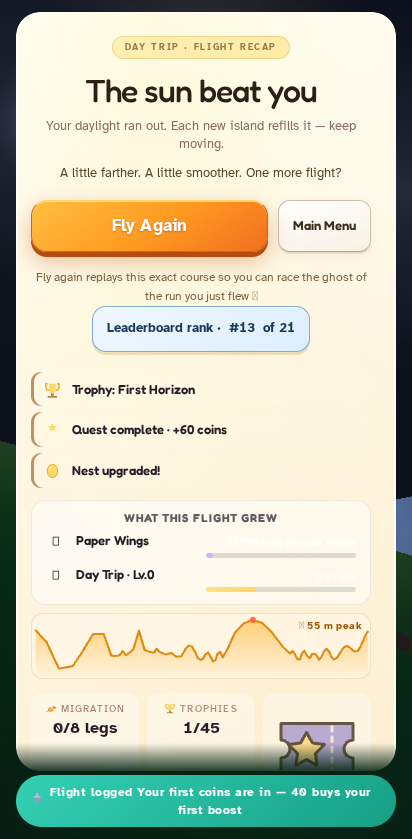
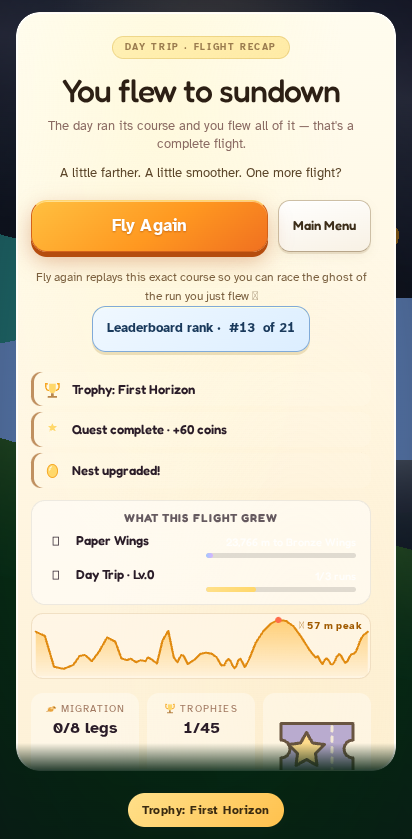
Engagement playbook levers: recap psychology pass, all shipped + locked
Implements the ranked levers from docs/poki/ENGAGEMENT_PLAYBOOK.md §3.4:

- Outcome-aware recap headline: runOutcome flows into HudSnapshot; a
  completed day trip reads "You flew to sundown" / "Flight complete —
  landed clean" instead of "The sun beat you". Genuine fails keep
  coaching copy. Completes the runOutcome honesty fix player-side.
- Near-miss strip promoted from below eight folds to directly after the
  tagline, before the Fly Again button (the retry decision point).
- Armed 3x coin card + next-flight lesson moved above the fold, right
  after the Distance/Score/Coins summary; links stay below.
- Golden-hour pre-cue: one toast at 35% daylight, once per run
  (goldenCued, reset in startRun); the 22% payoff is unchanged.
- Streak chip on the home hero at streakDays >= 2 ("one flight keeps
  it alive") — endowed progress at the return decision point.
- Run-2 CTA made concrete: "Today's Daily Challenge is live — bonus
  coins on the daily course" replaces the vague social-sky nudge.

Levers 2/3/10 verified as already satisfied (starter goals, first-
control Fly Again + EN-02 Space, portrait preview); 7 deferred pending
real cohort data for ghost seeding. Status table in the playbook.

Proof: new recap-engagement.test.ts (9 tests — headline framing, fold
order, no duplicate cards, streak chip presence/absence); first-session
audit now asserts the levers on the running build (headline PASS,
pre-cue PASS) with refreshed screenshots. Full suite 3229/3229,
[…]

diff --git a/src/game/hud/run.ts b/src/game/hud/run.ts
@@ -19,7 +19,7 @@ import { escapeHtml, sectionTitle } from "./kit";
 import { type HudSnapshot } from "./types";
 import { distanceText, renderGoalList, renderMissions, renderQuests, renderScoreTable } from "./parts";
 
-export function renderGameOver(s: Pick<HudSnapshot, "balloons" | "bestDistance" | "biomeEmoji" | "biomeName" | "board" | "boardMetric" | "boardScope" | "campaignDone" | "campaignTotal" | "celebration" | "challengeOutcome" | "claimedQuests" | "coins" | "distance" | "duel" | "duelDelta" | "duelWas" | "endReason" | "expShareFirst" | "flightPath" | "ghostDelta" | "highScores" | "island" | "massRace" | "mastery" | "missions" | "modeId" | "modeName" | "multiplierClaimed" | "nearMiss" | "nestLevel" | "nestMult" | "newBest" | "newlyCompleted" | "nextAction" | "p1Stats" | "p2Stats" | "perfects" | "photoFinish" | "portalName" | "quests" | "raceField" | "raceFinishM" | "raceFinishTime" | "racePlace" | "raceRated" | "raceVerified" | "ratingBonus" | "ratingDelta" | "rings" | "rival" | "roomCode" | "score" | "season" | "sessionGoals" | "share" | "shareBusy" | "skins" | "slopeChain" | "slopeScore" | "sunflowers" | "trophyCounts" | "versus" | "versusWinner" | "wallet" | "wings" | "zeniths">): string {
+export function renderGameOver(s: Pick<HudSnapshot, "balloons" | "bestDistance" | "biomeEmoji" | "biomeName" | "board" | "boardMetric" | "boardScope" | "campaignDone" | "campaignTotal" | "celebration" | "challengeOutcome" | "claimedQuests" | "coins" | "distance" | "duel" | "duelDelta" | "duelWas" | "endReason" | "expShareFirst" | "flightPath" | "ghostDelta" | "highScores" | "island" | "massRace" | "mastery" | "missions" | "modeId" | "modeName" | "multiplierClaimed" | "nearMiss" | "nestLevel" | "nestMult" | "newBest" | "newlyCompleted" | "nextAction" | "p1Stats" | "p2Stats" | "perfects" | "photoFinish" | "portalName" | "quests" | "raceField" | "raceFinishM" | "raceFinishTime" | "racePlace" | "raceRated" | "raceVerified" | "ratingBonus" | "ratingDelta" | "rings" | "rival" | "roomCode" | "runOutcome" | "score" | "season" | "sessionGoals" | "share" | "shareBusy" | "skins" | "slopeChain" | "slopeScore" | "sunflowers" | "trophyCounts" | "versus" | "versusWinner" | "wallet" | "wings" | "zeniths">): string {
   if (s.versus && s.p1Stats && s.p2Stats) return renderVersusResult(s);
   const questTotal = s.claimedQuests.reduce((a, q) => a + q.reward, 0);
   const deltaTxt =
@@ -101,9 +101,10 @@ export function renderGameOver(s: Pick<HudSnapshot, "balloons" | "bestDistance" 
 
   return `
     <div class="results-kicker">${escapeHtml(s.modeName)} · ${t("hud.gameover.flightRecap", undefined, "flight recap")}</div>
-    <h2>${escapeHtml(END_REASON_TITLE[s.endReason] ?? "Flight completed")}</h2>
-    <p class="end-reason">${escapeHtml(END_REASON_LINE[s.endReason] ?? "")}</p>
+    <h2>${escapeHtml(recapTitle(s))}</h2>
+    <p class="end-reason">${escapeHtml(recapLine(s))}</p>
     <p class="tagline">${s.massRace ? t("hud.gameover.massraceTagline", undefined, "Your place, your progress, your next race.") : t("hud.gameover.soloTagline", undefined, "A little farther. A little smoother. One more flight?")}</p>
+    ${s.nearMiss ? `<div class="nearmiss">${s.nearMiss}</div>` : ""}
     <div class="result-actions"><button class="play-again-btn" data-ui data-action="${resultsPrimaryAction(s)}">${s.massRace && s.roomCode ? t("hud.gameover.backToLobby", undefined, "Back to race lobby") : s.massRace && s.racePlace > 0 ? t("hud.gameover.raceAgain", undefined, "Race again · same stakes") : t("hud.gameover.flyAgain", undefined, "Fly Again")}</button><button class="soft-btn" data-ui data-action="menu">${t("hud.gameover.mainMenu", undefined, "Main Menu")}</button></div>
     ${!s.massRace ? `<p class="fineprint replay-note">${t("hud.gameover.replayNote", undefined, "Fly again replays this exact course so you can race the ghost of the run you just flew 👻")}</p>` : ""}
     ${s.newBest ? `<div class="new-best">${menuIconSm("crown")} ${t("hud.gameover.newBest", undefined, "NEW BEST")} · ${distanceText(s.distance)}<small>${t("hud.gameover.farthestFlight", undefined, "your farthest flight yet")}</small></div>` : ""}
@@ -123,6 +124,9 @@ export function renderGameOver(s: Pick<HudSnapshot, "balloons" | "bestDistance" 
       <div><span>${t("hud.stat.coins", undefined, "Coins")}</span><b>${formatNumberLocalized(s.coins)}</b></div>
     </div>
 
+    ${renderCoinMultiplierCard(s.coins, s.multiplierClaimed, s.portalName !== "none")}
+    ${renderNextFlight(s)}
+
     <div class="btn-row result-links">
       <button class="soft-btn gold-tint" data-ui data-action="open-shop">${menuIcon("shop")} Shop</button>
       <button class="soft-btn" data-ui data-action="open-pass">${menuIcon("pass")} Pass</button>
@@ -130,9 +134,6 @@ export function renderGameOver(s: Pick<HudSnapshot, "balloons" | "bestDistance" 
     </div>
     ${s.nextAction ? `<p class="next-action">${escapeHtml(s.nextAction)}</p>` : ""}
 
-    ${renderCoinMultiplierCard(s.coins, s.multiplierClaimed, s.portalName !== "none")}
-
-    ${renderNextFlight(s)}
     <details class="result-details"><summary>${t("hud.renderGameOver.FDetails", undefined, "Flight details ")}<span>Landmarks &amp; skill</span></summary><div class="over-stats">
       <div><span>Perfects</span><b>${s.perfects}</b></div>
       <div><span>${t("hud.renderGameOver.SMoments", undefined, "Skyline moments")}</span><b>${s.zeniths}</b></div>
@@ -145,7 +146,6 @@ export function renderGameOver(s: Pick<HudSnapshot, "balloons" | "bestDistance" 
     ${s.ghostDelta !== null ? `<div class="reward-strip ${s.ghostDelta >= 0 ? "" : "nest"}">${s.ghostDelta >= 0 ? `Beat your ghost by ${Math.round(s.ghostDelta)}m! ${menuIconSm("ghost")}` : `${Math.round(-s.ghostDelta)}m behind your best ghost`}</div>` : ""}
     ${questTotal ? `<div class="reward-strip">Daily quest${s.claimedQuests.length > 1 ? "s" : ""} complete · +${questTotal} coins</div>` : ""}
     ${s.newlyCompleted.length ? `<div class="reward-strip nest">Nest upgraded → Lv.${s.nestLevel} · ×${s.nestMult.toFixed(2)} score</div>` : ""}
-    ${s.nearMiss ? `<div class="nearmiss">${s.nearMiss}</div>` : ""}
     ${s.challengeOutcome ? `<div class="reward-strip ${s.challengeOutcome.includes("missed") ? "nest" : ""}">${escapeHtml(s.challengeOutcome)}</div>` : ""}
     ${duelStrip}
     ${raceStrip}
@@ -439,12 +439,29 @@ export function resultsPrimaryAction(
 }
 
 /**
- * How each ending is named on the results card.
- *
- * Three deaths used to produce one card reading "Flight completed" — including
- * a settle-death that fires with most of the daylight still on the meter, which
- * cannot be read as "the sun won" by any player.
+ * The recap headline is outcome-aware (playbook §3). The old maps framed
+ * every end reason as a defeat — "The sun beat you" greeted a player who
+ * flew the whole day trip to sundown, which is the mode *completing*, not
+ * losing. `runOutcome` (same contract the Poki funnel reports) now decides
+ * the frame: completed runs get earned-pride copy so the retry reads as
+ * "go further" instead of "erase a failure"; only genuine fails coach.
  */
+const recapTitle = (s: { endReason: HudSnapshot["endReason"]; runOutcome: HudSnapshot["runOutcome"] }): string => {
+  if (s.runOutcome === "complete") {
+    if (s.endReason === "settled") return "Flight complete — landed clean";
+    return "You flew to sundown";
+  }
+  return END_REASON_TITLE[s.endReason] ?? "Flight completed";
+};
+
+const recapLine = (s: { endReason: HudSnapshot["endReason"]; runOutcome: HudSnapshot["runOutcome"] }): string => {
+  if (s.runOutcome === "complete") {
+    if (s.endReason === "settled") return "You brought the glide home yourself. Full card, full flight.";
+    return "The day ran its course and you flew all of it — that's a complete flight.";
+  }
+  return END_REASON_LINE[s.endReason] ?? "";
+};
+
 const END_REASON_TITLE: Record<string, string> = {
   daylight: "The sun beat you",
   water: "You washed out",

diff --git a/src/game/__tests__/recap-engagement.test.ts b/src/game/__tests__/recap-engagement.test.ts
@@ -1,0 +1,133 @@
+/**
+ * Engagement regressions for the results card and the home hero — the levers
+ * from docs/poki/ENGAGEMENT_PLAYBOOK.md that live in markup, locked here so a
+ * refactor cannot quietly re-bury them.
+ *
+ * The playbook's diagnosis: the 2026-10-04 fit test lost players at the recap
+ * (avg 1m20s, retry rate low). Three markup causes — a headline that mourned
+ * successful runs, a near-miss strip buried below eight folds, and the armed
+ * coin bonus below the fold — are each pinned by a test below. The home-hero
+ * streak chip (endowed progress at the return decision point) is pinned too.
+ */
+import { afterEach, describe, expect, it, vi } from "vitest";
+import { renderGameOver } from "../hud/run";
+import { mountHud, snapshotStub, WINGS } from "./hudHarness";
+import type { HudSnapshot } from "../hud/types";
+
+afterEach(() => {
+  vi.unstubAllGlobals();
+  document.body.innerHTML = "";
+});
+
+/** A snapshot whose unread fields render as inert empties (see hudHarness). */
+function recap(over: Record<string, unknown> = {}): string {
+  const snap = snapshotStub();
+  Object.assign(snap, {
+    // Multiplayer strips — inert for a solo day trip.
+    massRace: false, roomCode: "", racePlace: 0, raceRated: false, raceVerified: false,
+    raceField: 0, raceFinishM: 0, raceFinishTime: 0, ratingDelta: 0, ratingBonus: 0,
+    duelWas: "", duelDelta: 0, duel: { wins: 0, losses: 0, streak: 0 },
+    versus: false, versusWinner: 0, p1Stats: null, p2Stats: null, photoFinish: "",
+    rival: { rating: 1000, streak: 0 },
+    // Share — unavailable build: the clipboard fallback is the honest floor.
+    share: { available: false, loaded: null, code: "", busy: false, error: "" },
+    shareBusy: false, expShareFirst: false,
+    // Empty collections render their sections as no-ops.
+    sessionGoals: [], quests: [], missions: [], newlyCompleted: [], highScores: [],
+    claimedQuests: [], flightPath: [], skins: [], mastery: [], celebration: null,
+    // Scalar readouts.
+    endReason: "daylight", runOutcome: "complete", modeId: "daytrip", modeName: "Day Trip",
+    distance: 0, score: 0, coins: 0, bestDistance: 0, island: 0,
+    perfects: 0, zeniths: 0, rings: 0, balloons: 0, sunflowers: 0,
+    slopeScore: 0, slopeChain: 0, nestLevel: 1, nestMult: 1,
+    newBest: false, nextAction: "", nearMiss: "", challengeOutcome: "",
+    ghostDelta: null, board: null, boardScope: "global", boardMetric: "distance",
+    multiplierClaimed: false, portalName: "none",
+    wallet: { coins: 0 }, wings: WINGS,
+    season: { tier: 1, maxTier: 50 }, trophyCounts: { unlocked: 0, total: 0 },
+    campaignDone: 0, campaignTotal: 0, biomeEmoji: "sun", biomeName: "Meadows",
+    ...over,
+  });
+  return renderGameOver(snap as unknown as HudSnapshot);
+}
+
+describe("outcome-aware recap headline (playbook §3)", () => {
+  it("celebrates a day trip flown to sundown as a complete flight", () => {
+    const html = recap({ endReason: "daylight", runOutcome: "complete" });
+    expect(html).toContain("You flew to sundown");
+    // The old shame frame — "The sun beat you" — must not greet a completed run.
+    expect(html).not.toContain("The sun beat you");
+  });
+
+  it("celebrates a chosen landing as a completed journey", () => {
+    const html = recap({ endReason: "settled", runOutcome: "complete" });
+    expect(html).toContain("Flight complete — landed clean");
+    expect(html).not.toContain("You stopped flying");
+  });
+
+  it("keeps honest coaching for genuine fails (a ditching is still a fail)", () => {
+    const html = recap({ endReason: "water", runOutcome: "fail" });
+    expect(html).toContain("You washed out");
+    expect(html).toContain("The sea took the run");
+  });
+
+  it("coaches a no-show daylight run instead of celebrating it", () => {
+    const html = recap({ endReason: "daylight", runOutcome: "fail" });
+    expect(html).toContain("The sun beat you");
+    expect(html).not.toContain("You flew to sundown");
+  });
+});
+
+describe("recap fold order (playbook §3 + lever 8)", () => {
+  it("puts the near-miss strip at the emotional peak: after the tagline, before the retry button", () => {
+    const html = recap({
+      endReason: "daylight",
+      runOutcome: "fail",
+      nearMiss: "2% off your best distance",
+    });
+    const nearMiss = html.indexOf("2% off your best distance");
+    const tagline = html.indexOf("One more flight?");
+    const actions = html.indexOf("result-actions");
+    expect(nearMiss).toBeGreaterThan(tagline);
+    expect(nearMiss).toBeLessThan(actions);
+  });
+
+  it("shows the armed coin bonus and next flight above the fold, right after the stats", () => {
+    // coins > 0 arms the 3× bonus card; with 0 coins it correctly renders nothing.
+    const html = recap({ endReason: "daylight", runOutcome: "complete", coins: 120 });
+    const summary = html.indexOf("result-summary");
+    const multiplier = html.indexOf("multiplier-cta-card");
+    const nextFlight = html.indexOf("next-flight");
+    const links = html.indexOf("result-links");
+    expect(multiplier).toBeGreaterThan(summary);
+    expect(nextFlight).toBeGreaterThan(summary);
+    // And no second copy below the fold (the move must not duplicate the card).
+    expect(html.indexOf("multiplier-cta-card", multiplier + 1)).toBe(-1);
+    expect(links).toBeGreaterThan(multiplier);
+  });
+
+  it("keeps Fly Again as the first action in the card's action row", () => {
+    const html = recap({ endReason: "daylight", runOutcome: "complete" });
+    const actions = html.indexOf("result-actions");
+    const flyAgain = html.indexOf("Fly Again");
+    const menu = html.indexOf("Main Menu");
+    expect(actions).toBeGreaterThan(-1);
+    expect(flyAgain).toBeGreaterThan(actions);
+    expect(flyAgain).toBeLessThan(menu);
+  });
+});
+
+describe("home-hero streak chip (playbook lever 4)", () => {
+  it("surfaces a 2+ day streak on the hero, where the return decision happens", async () => {
+    vi.stubGlobal("ResizeObserver", class { observe() {} disconnect() {} });
+    const { root } = await mountHud({ state: "menu", screen: "main", streakDays: 3 });
+    const chip = root.querySelector(".streak-pill");
+    expect(chip?.textContent).toContain("3-day streak");
+  });
+
+  it("stays quiet at 0-1 days (no fake endowed progress)", async () => {
+    vi.stubGlobal("ResizeObserver", class { observe() {} disconnect() {} });
+    const { root } = await mountHud({ state: "menu", screen: "main", streakDays: 1 });
+    expect(root.querySelector(".streak-pill")).toBeNull();
+  });
+});

diff --git a/src/game/Game.ts b/src/game/Game.ts
@@ -636,6 +636,8 @@ export class Game {
   private weeklyMods = { coinMult: 1, gravityMult: 1, windMult: 1, daylightMult: 1 };
   /** Golden Hour: the last stretch of daylight — 2× coins, amber world. */
   private goldenHour = false;
+  /** One-shot pre-cue for golden hour (see the daylight block in the run loop). */
+  private goldenCued = false;
   private nextMilestone = 500;
   private rivalBeatenToast = false;
 
@@ -2613,6 +2615,19 @@ export class Game {
       // GOLDEN HOUR — the last 22% of the day. The world turns amber, the
       // music opens, and every coin is worth double. Deep runs get a reason.
       const goldenNow = this.daylight > 0 && this.daylight < this.daylightMax() * 0.22;
+      // ANTICIPATION CUE — a soft heads-up while there is still daylight to
+      // spend: "golden hour soon" tells the player the run has a late-game
+      // payoff worth flying to, which is exactly the stretch where new
+      // players quit (the 2026-10-04 fit test lost most runs mid-flight).
+      // Once per run, one line, no siren: the payoff itself still lands as
+      // the surprise when the hour arrives.
+      if (
+        !this.goldenCued && !this.goldenHour && this.daylight > 0 &&
+        this.daylight < this.daylightMax() * 0.35 && this.daylight >= this.daylightMax() * 0.22
+      ) {
+        this.goldenCued = true;
+        this.hud.toast("Golden hour soon — coins ×2 while the sun sets", "info", "half_day");
+      }
       if (goldenNow && !this.goldenHour) {
         this.goldenHour = true;
         this.audio.goldenHour();
@@ -3678,6 +3693,7 @@ export class Game {
     if (this.eventRun) this.weeklyMods = weeklyEvent().mods;
     this.serverPlaceApplied = false;
     this.goldenHour = false;
+    this.goldenCued = false;
     this.nextMilestone = 500;
     this.rivalBeatenToast = false;
     this.stormPhase = 1;
@@ -4055,7 +4071,11 @@ export class Game {
       this.hud.toast("Flight logged Your first coins are in — 40 buys your first boost", "quest", "crystal");
       this.telemetry.track("onboarding_first_flight_complete", { distance: Math.round(stats.distance) });
     } else if (this.sessionRuns === 2) {
-      this.hud.toast("Ready for the social sky? Challenge a rival or try today's course", "quest");
+      // A concrete, time-limited next goal beats a vague social nudge for a
+      // player two runs in: the daily course is live content with a payout,
+      // and naming it is the CTA (playbook lever 9). The social sky keeps its
+      // own surfaces — the lobby, the recap's challenge buttons.
+      this.hud.toast("Today's Daily Challenge is live — bonus coins on the daily course", "gold", "sun");
     }
 
     // A duel abandoned short of the line is a loss — no free retries on rating.
@@ -8343,6 +8363,7 @@ export class Game {
     atlas: this.screen === "atlas" ? atlas(this.save, this.island) : [],
     farthestIsland: Math.max(st.farthestIsland, this.island),
     endReason: this.endReason,
+    runOutcome: this.runOutcome,
     launchBanner: this.launchBannerText,
     launchBannerT: this.launchBannerT,
     launchRating: this.lastLaunch?.rating ?? "none",

diff --git a/src/game/hud/types.ts b/src/game/hud/types.ts
@@ -294,6 +294,11 @@ export type HudSnapshot = {
   /* --- momentum / flight readouts --- */
   /** How the run ended, so the card can say so. */
   endReason: "daylight" | "water" | "settled";
+  /** Whether the run actually ended in failure. A run that simply ran its
+   *  course (daylight out, or a settled landing after a full card) is a
+   *  complete run, and the recap headline must celebrate it, not mourn it —
+   *  shaming successful players is how a recap loses the retry. */
+  runOutcome: "complete" | "fail";
   launchBanner: string;
   launchBannerT: number;
   launchRating: string;

diff --git a/src/game/HUD.ts b/src/game/HUD.ts
@@ -3018,6 +3018,7 @@ function renderMain(s: HudSnapshot): string {
         <span class="hero-kicker">chase the daylight</span>
         <h1>SUNBIRD</h1>
         <p class="hero-sub">${t("hud.heroSub", undefined, "Hold to dive. Release to soar.")}<br>${t("hud.heroSub2", undefined, "Master the glide across endless islands.")}</p>
+        ${s.streakDays >= 2 ? `<div class="hero-meta"><span class="pill streak-pill">${menuIconSm("sun")} ${s.streakDays}-day streak — one flight keeps it alive</span></div>` : ""}
       </div>
     </header>
 

diff --git a/docs/poki/ENGAGEMENT_PLAYBOOK.md b/docs/poki/ENGAGEMENT_PLAYBOOK.md
@@ -89,6 +89,46 @@ the evidence bar. Work top-down; each is small.
 | 9 | **Session cadence after run 2** — the "Ready for the social sky?" toast fires after run 2; consider a daily-challenge CTA instead | A concrete, time-limited next goal beats a vague social nudge for new players | `sessionRuns === 2` toast in `finishRun()` |
 | 10 | **Portrait-first polish** — portrait averages +6 % engagement and unlocks Gamebar ads (`EA-10`) | Platform-measured, not theory | Verify the default preview orientation is portrait |
 
+### 3.4 The recap psychology pass — levers shipped (same day)
+
+The ranked levers below were implemented the same day the playbook was
+written; nothing here is aspirational.
+
+* **Outcome-aware recap headline** — the headline used to shame every run
+  ("The sun beat you") including completed day trips. `runOutcome` (the same
+  contract the Poki funnel reports, §3.1) now flows into `HudSnapshot` and the
+  headline celebrates a completed run ("You flew to sundown" / "Flight
+  complete — landed clean"); only genuine fails get coaching copy.
+* **Near-miss promoted to the emotional peak** (lever 1) — the `nearMiss`
+  strip moved from below eight folds to directly after the tagline, before
+  the Fly Again button, where the retry decision actually forms.
+* **Armed bonus + next flight above the fold** (levers 5 + 8) — the 3× coin
+  card and the "take this into your next flight" lesson moved up to directly
+  after the Distance/Score/Coins summary; shop/pass/atlas links and the
+  details fold stay below.
+* **Golden-hour pre-cue** (lever 6) — one soft toast at 35 % daylight
+  ("Golden hour soon — coins ×2 while the sun sets"), once per run; the
+  payoff toast at 22 % is unchanged.
+* **Streak chip on the home hero** (lever 4) — a `streakDays ≥ 2` pill on the
+  title screen ("3-day streak — one flight keeps it alive"): endowed progress
+  exactly where the return decision happens.
+* **Run-2 CTA made concrete** (lever 9) — "Ready for the social sky?" became
+  "Today's Daily Challenge is live — bonus coins on the daily course".
+
+Locked by `src/game/__tests__/recap-engagement.test.ts` (9 tests: headline
+framing, fold order, no duplicate cards, streak chip presence/absence) and
+proven on the running artifact by `scripts/first-session-audit.mjs`, which
+now asserts the headline and samples for the golden-hour cues mid-run
+(headline PASS, pre-cue PASS on the 2026-10-04 run).
+
+**Lever status:** 1, 4, 5, 6, 8, 9 **shipped** (above) · 2 **already existed**
+(starter session-goals with a 40-coin reward floor — verified) · 3 **verified,
+no change needed** (Fly Again is the first control in the card; Space is the
+EN-02 two-step primary; the button already carries full gold-CTA styling) ·
+7 **deferred with reason** (a first-run ghost needs real cohort seed data —
+`benchmarkRows()` is empty until the game has live runs; revisit after the
+next fit test) · 10 **verified** (phone-shaped preview is the default).
+
 ## 5. What NOT to do (the guide is explicit)
 
 - **Never gate the first flight** — no name entry, no menu between boot and
